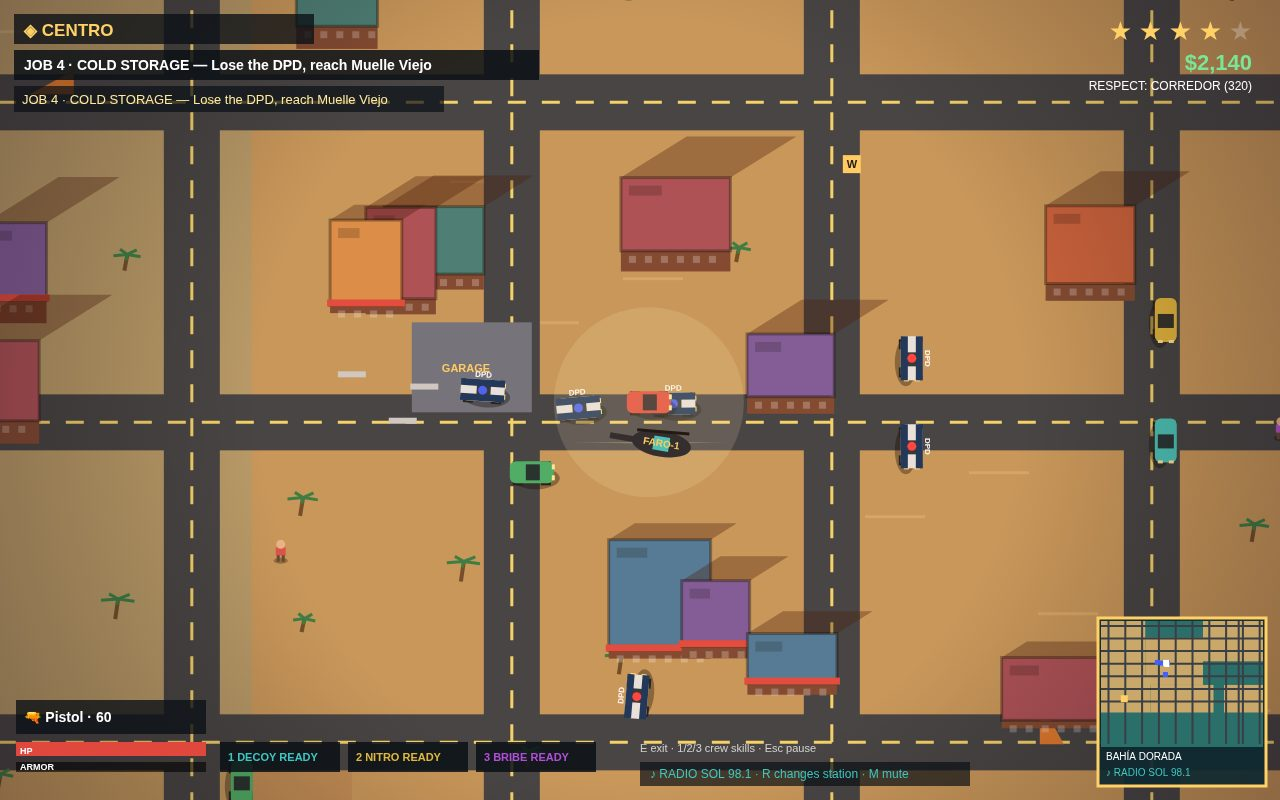
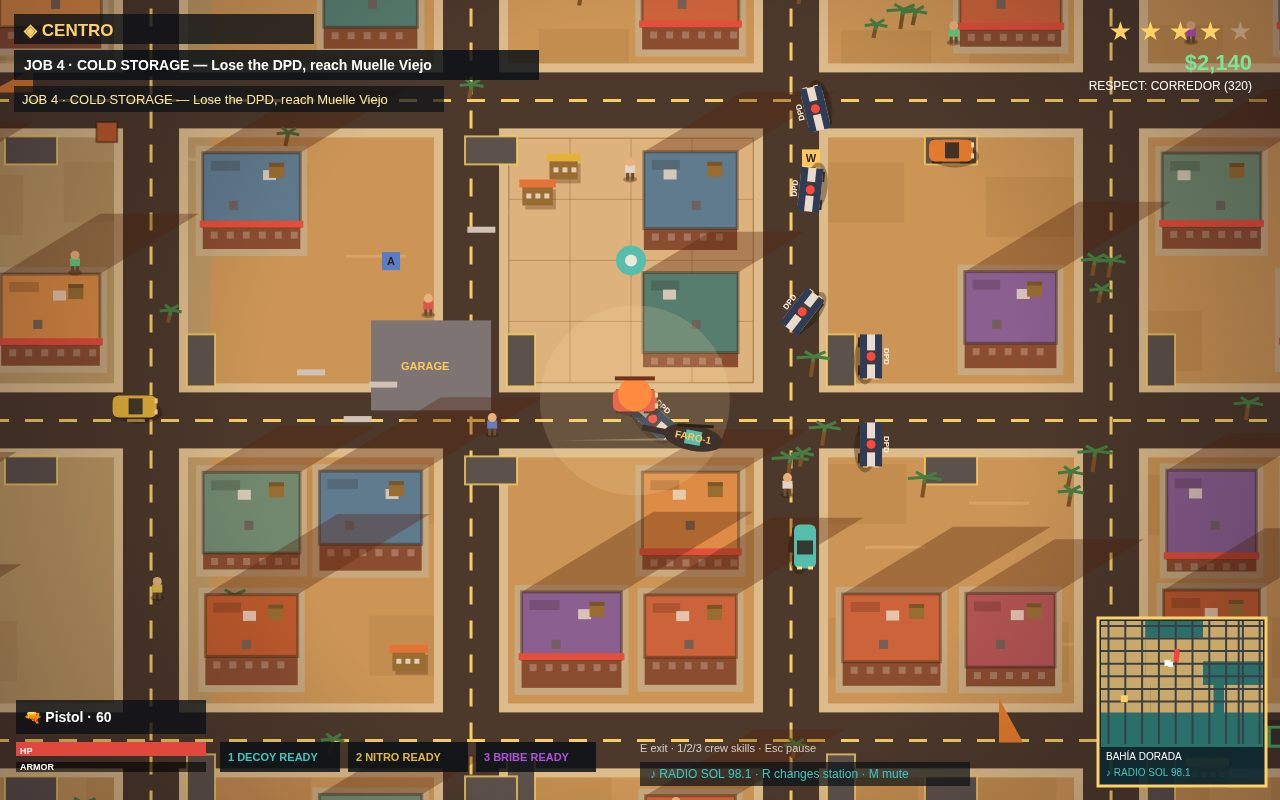
Densify city blocks, ground detail, warmer grade

diff --git a/game/src/render.js b/game/src/render.js
@@ -26,6 +26,30 @@ export function drawWorld(ctx, G) {
   const b = G.city.beach;
   ctx.fillStyle = COLORS.sand; ctx.fillRect(b.x - cam.x, b.y - cam.y, b.w, b.h);
   ctx.fillStyle = '#7a9e52'; ctx.fillRect(2000 - cam.x, -cam.y, 1200, 1100); // Las Lomas green
+  // ground texture patches (deterministic hash, viewport-culled)
+  ctx.fillStyle = 'rgba(120,84,40,0.13)';
+  for (let gx = Math.floor(cam.x / 150) * 150; gx < cam.x + 1280; gx += 150) for (let gy = Math.floor(cam.y / 150) * 150; gy < cam.y + 800; gy += 150) {
+    const hsh = Math.abs(Math.sin(gx * 12.9898 + gy * 78.233) * 43758.5453) % 1;
+    if (hsh < 0.55) ctx.fillRect(gx - cam.x + hsh * 60, gy - cam.y + hsh * 40, 90, 60);
+  }
+  // building lot paving: a concrete apron under every building fills the block
+  ctx.fillStyle = '#bfae8d';
+  for (const bd of G.city.buildings) {
+    const lx = bd.x - 7 - cam.x, ly = bd.y - 7 - cam.y;
+    if (lx < -180 || ly < -180 || lx > 1420 || ly > 920) continue;
+    ctx.fillRect(lx, ly, bd.w + 14, bd.h + 14);
+  }
+  // Centro plaza paving + fountain (block between the central avenues)
+  ctx.fillStyle = '#d9b98a'; ctx.fillRect(1198 - cam.x, 878 - cam.y, 244, 244);
+  ctx.strokeStyle = 'rgba(120,80,40,0.35)'; ctx.lineWidth = 1;
+  for (let i = 0; i <= 4; i++) {
+    ctx.beginPath(); ctx.moveTo(1198 + i * 61 - cam.x, 878 - cam.y); ctx.lineTo(1198 + i * 61 - cam.x, 1122 - cam.y); ctx.stroke();
+    ctx.beginPath(); ctx.moveTo(1198 - cam.x, 878 + i * 61 - cam.y); ctx.lineTo(1442 - cam.x, 878 + i * 61 - cam.y); ctx.stroke();
+  }
+  // sidewalks: light border slab under every road
+  ctx.fillStyle = '#d8c49a';
+  for (const r of G.city.vRoads) ctx.fillRect(r - ROAD_W / 2 - 9 - cam.x, -cam.y, ROAD_W + 18, WORLD.h);
+  for (const r of G.city.hRoads) ctx.fillRect(-cam.x, r - ROAD_W / 2 - 9 - cam.y, WORLD.w, ROAD_W + 18);
   // roads
   ctx.fillStyle = COLORS.road;
   for (const r of G.city.vRoads) ctx.fillRect(r - ROAD_W / 2 - cam.x, -cam.y, ROAD_W, WORLD.h);
@@ -34,6 +58,39 @@ export function drawWorld(ctx, G) {
   for (const r of G.city.vRoads) { ctx.beginPath(); ctx.moveTo(r - cam.x, -cam.y); ctx.lineTo(r - cam.x, WORLD.h - cam.y); ctx.stroke(); }
   for (const r of G.city.hRoads) { ctx.beginPath(); ctx.moveTo(-cam.x, r - cam.y); ctx.lineTo(WORLD.w - cam.x, r - cam.y); ctx.stroke(); }
   ctx.setLineDash([]);
+  // parking bays along road edges (under the parked cars)
+  for (const s of G.city.parkedSpots) {
+    const x = s.x - cam.x, y = s.y - cam.y;
+    if (x < -60 || x > 1340 || y < -60 || y > 860) continue;
+    ctx.save(); ctx.translate(x, y); ctx.rotate(s.a);
+    ctx.fillStyle = '#454a51'; ctx.fillRect(-26, -14, 52, 28);
+    ctx.strokeStyle = 'rgba(245,215,110,0.8)'; ctx.lineWidth = 2; ctx.strokeRect(-26, -14, 52, 28);
+    ctx.restore();
+  }
+  // ground decor props: stalls / crates / containers / beach umbrellas
+  for (const pr of G.city.props) {
+    const x = pr.x - cam.x, y = pr.y - cam.y;
+    if (x < -80 || x > 1360 || y < -80 || y > 880) continue;
+    if (pr.kind === 'umbrella') {
+      ctx.strokeStyle = '#8a6a34'; ctx.lineWidth = 3; ctx.beginPath(); ctx.moveTo(x, y); ctx.lineTo(x, y - 12); ctx.stroke();
+      ctx.fillStyle = pr.color; ctx.beginPath(); ctx.arc(x, y - 13, 15, Math.PI, 0); ctx.closePath(); ctx.fill();
+      ctx.fillStyle = 'rgba(255,255,255,0.55)'; ctx.fillRect(x - 11, y + 5, 22, 6); // towel
+    } else if (pr.kind === 'stall') {
+      ctx.fillStyle = 'rgba(60,20,10,0.3)'; ctx.fillRect(x - pr.w / 2 + 3, y - pr.h / 2 + 4, pr.w, pr.h);
+      ctx.fillStyle = '#8a6a34'; ctx.fillRect(x - pr.w / 2, y - pr.h / 2, pr.w, pr.h);
+      ctx.fillStyle = pr.color; ctx.fillRect(x - pr.w / 2 - 3, y - pr.h / 2 - 6, pr.w + 6, 8); // awning
+      ctx.fillStyle = 'rgba(255,255,255,0.75)';
+      for (let sx = -pr.w / 2 + 4; sx < pr.w / 2 - 4; sx += 9) ctx.fillRect(x + sx, y - 2, 5, 5); // goods
+    } else if (pr.kind === 'crate') {
+      ctx.fillStyle = pr.color; ctx.fillRect(x - pr.w / 2, y - pr.h / 2, pr.w, pr.h);
+      ctx.strokeStyle = 'rgba(0,0,0,0.4)'; ctx.lineWidth = 2; ctx.strokeRect(x - pr.w / 2, y - pr.h / 2, pr.w, pr.h);
+    } else if (pr.kind === 'container') {
+      ctx.fillStyle = 'rgba(60,20,10,0.3)'; ctx.fillRect(x - pr.w / 2 + 4, y - pr.h / 2 + 5, pr.w, pr.h);
+      ctx.fillStyle = pr.color; ctx.fillRect(x - pr.w / 2, y - pr.h / 2, pr.w, pr.h);
+      ctx.strokeStyle = 'rgba(0,0,0,0.35)'; ctx.lineWidth = 2;
+      for (let cx2 = -pr.w / 2 + 8; cx2 < pr.w / 2; cx2 += 11) { ctx.beginPath(); ctx.moveTo(x + cx2, y - pr.h / 2); ctx.lineTo(x + cx2, y + pr.h / 2); ctx.stroke(); }
+    }
+  }
   // causeway bridge
   ctx.fillStyle = '#8a8f96'; ctx.fillRect(2560 - cam.x, 1640 - cam.y, 240, 60);
   // garage pad
@@ -68,6 +125,9 @@ export function drawWorld(ctx, G) {
   // buildings sorted by y for pseudo-3D overlap
   const sorted = [...G.city.buildings].sort((a, b2) => a.y - b2.y);
   for (const bd of sorted) drawBuilding(ctx, bd, cam);
+  // Centro plaza fountain, in the cross-gap of its block
+  ctx.fillStyle = '#3ec6c0'; ctx.beginPath(); ctx.arc(1320 - cam.x, 1000 - cam.y, 15, 0, 7); ctx.fill();
+  ctx.fillStyle = '#e8f6f6'; ctx.beginPath(); ctx.arc(1320 - cam.x, 1000 - cam.y, 6, 0, 7); ctx.fill();
   // Isla Faro lighthouse
   drawLighthouse(ctx, G, cam);
   // objective marker beam
@@ -107,7 +167,7 @@ export function drawWorld(ctx, G) {
   }
   drawHeli(ctx, G, cam);
   // golden-hour tint + vignette
-  ctx.fillStyle = 'rgba(255,140,50,0.08)'; ctx.fillRect(0, 0, 1280, 800);
+  ctx.fillStyle = 'rgba(255,130,40,0.13)'; ctx.fillRect(0, 0, 1280, 800);
   const vg = ctx.createRadialGradient(640, 400, 380, 640, 400, 780);
   vg.addColorStop(0, 'rgba(0,0,0,0)'); vg.addColorStop(1, 'rgba(20,8,20,0.35)');
   ctx.fillStyle = vg; ctx.fillRect(0, 0, 1280, 800);
@@ -118,7 +178,7 @@ function drawBuilding(ctx, bd, cam) {
   if (x < -180 || y < -180 || x > 1400 || y > 900) return;
   // long golden-hour shadow to the north-east
   ctx.fillStyle = COLORS.shadow;
-  ctx.beginPath(); ctx.moveTo(x, y); ctx.lineTo(x + bd.w, y); ctx.lineTo(x + bd.w + bd.tall * 1.6, y - bd.tall); ctx.lineTo(x + bd.tall * 1.6, y - bd.tall); ctx.closePath(); ctx.fill();
+  ctx.beginPath(); ctx.moveTo(x, y); ctx.lineTo(x + bd.w, y); ctx.lineTo(x + bd.w + bd.tall * 2.3, y - bd.tall * 1.4); ctx.lineTo(x + bd.tall * 2.3, y - bd.tall * 1.4); ctx.closePath(); ctx.fill();
   // south wall (extruded)
   ctx.fillStyle = COLORS.wall; ctx.fillRect(x, y + bd.h - bd.tall * 0.5, bd.w, bd.tall * 0.5);
   ctx.fillStyle = 'rgba(255,255,255,0.25)';
@@ -127,6 +187,11 @@ function drawBuilding(ctx, bd, cam) {
   ctx.fillStyle = bd.color; ctx.fillRect(x, y, bd.w, bd.h - bd.tall * 0.5);
   ctx.strokeStyle = 'rgba(0,0,0,0.35)'; ctx.strokeRect(x, y, bd.w, bd.h - bd.tall * 0.5);
   ctx.fillStyle = 'rgba(0,0,0,0.18)'; ctx.fillRect(x + 8, y + 8, bd.w * 0.3, 10);
+  // rooftop clutter (deterministic per building): AC box, vent, water tank on tall roofs
+  const rh = Math.abs(Math.sin(bd.x * 12.9898 + bd.y * 78.233) * 43758.5453) % 1;
+  ctx.fillStyle = 'rgba(230,225,215,0.85)'; ctx.fillRect(x + bd.w * (0.15 + rh * 0.5), y + bd.h * 0.18, 13, 10);
+  ctx.fillStyle = 'rgba(90,90,95,0.9)'; ctx.fillRect(x + bd.w * (0.55 - rh * 0.3), y + bd.h * 0.5, 9, 9);
+  if (bd.tall > 30) { ctx.fillStyle = '#8a6a34'; ctx.fillRect(x + bd.w * 0.68, y + 10, 15, 15); ctx.fillStyle = 'rgba(0,0,0,0.25)'; ctx.fillRect(x + bd.w * 0.68, y + 10, 15, 4); }
   if (bd.awning) { ctx.fillStyle = '#e0483e'; ctx.fillRect(x - 3, y + bd.h - bd.tall * 0.5 - 6, bd.w + 6, 7); }
   if (bd.name) { ctx.fillStyle = '#fff'; ctx.font = 'bold 10px sans-serif'; ctx.fillText(bd.name.toUpperCase(), x + 4, y + 14); }
 }

diff --git a/game/src/city.js b/game/src/city.js
@@ -9,20 +9,70 @@ export function buildCity(seed) {
   for (let y = 200; y < WORLD.h; y += 320) hRoads.push(y);
   // Causeway to Isla Faro
   vRoads.push(2680);
+  const parkedSpots = [];
+  for (const rx of vRoads) for (let y = 260; y < WORLD.h - 100; y += 420) parkedSpots.push({ x: rx + ROAD_W / 2 + 22, y, a: Math.PI / 2 });
+  for (const ry of hRoads) for (let x = 260; x < WORLD.w - 100; x += 460) parkedSpots.push({ x, y: ry + ROAD_W / 2 + 22, a: 0 });
   const buildings = [], palms = [], props = [];
-  const roofCols = ['#c65f3d', '#a84e5a', '#3f7d7a', '#d98e4a', '#7a5aa0', '#4a7a9e'];
-  for (const d of DISTRICTS) {
-    const n = d.id === 'isla' ? 12 : 40;
-    for (let i = 0; i < n; i++) {
-      const bx = d.x + 40 + rng() * (d.w - 160), by = d.y + 40 + rng() * (d.h - 160);
-      if (vRoads.some(r => Math.abs(bx - r) < 74) || hRoads.some(r => Math.abs(by - r) < 74)) continue;
-      if (bx > 2350 && by < 1650 && bx < 2500) continue; // keep causeway clear-ish
-      buildings.push({ x: bx, y: by, w: randRange(rng, 60, 120), h: randRange(rng, 60, 120), tall: randRange(rng, 14, 46), color: pick(rng, roofCols), awning: rng() < 0.4, name: '' });
+  const roofCols = ['#c65f3d', '#a84e5a', '#3f7d7a', '#d98e4a', '#7a5aa0', '#4a7a9e', '#b5542f', '#5d8a7a'];
+  // Block-based infill: every road-bounded block gets 2-4 buildings in a
+  // 2x2 slot grid, so no lot sits bare. Slots keep roads/garage/beach clear.
+  const xBounds = [0, ...[...vRoads].sort((a, b) => a - b), WORLD.w];
+  const yBounds = [0, ...[...hRoads].sort((a, b) => a - b), WORLD.h];
+  const keepClear = [[700, 820], [1700, 1460], [2540, 900], [2860, 1980], [500, 500], [1500, 900], [2600, 400], [1200, 1900], [1080, 1000], [400, 2000], [2750, 2000], [2200, 600]];
+  for (let xi = 0; xi < xBounds.length - 1; xi++) for (let yi = 0; yi < yBounds.length - 1; yi++) {
+    const ix = xBounds[xi] + (xBounds[xi] === 0 ? 22 : ROAD_W / 2 + 13), iy = yBounds[yi] + (yBounds[yi] === 0 ? 22 : ROAD_W / 2 + 13);
+    const iw = xBounds[xi + 1] - (xBounds[xi + 1] === WORLD.w ? 22 : ROAD_W / 2 + 13) - ix;
+    const ih = yBounds[yi + 1] - (yBounds[yi + 1] === WORLD.h ? 22 : ROAD_W / 2 + 13) - iy;
+    if (iw < 130 || ih < 130) continue;
+    const cx = ix + iw / 2, cy = iy + ih / 2;
+    const dist = DISTRICTS.find(d => cx >= d.x && cx < d.x + d.w && cy >= d.y && cy < d.y + d.h);
+    const slots = [[0, 0], [1, 0], [0, 1], [1, 1]].sort(() => rng() - 0.5);
+    const count = 2 + Math.floor(rng() * 3); // 2-4 per block
+    for (const [sx, sy] of slots.slice(0, count)) {
+      const sw = iw / 2, sh = ih / 2;
+      const bw = sw - randRange(rng, 16, 30), bh = sh - randRange(rng, 16, 30);
+      const bx = ix + sx * sw + (sw - bw) / 2, by = iy + sy * sh + (sh - bh) / 2;
+      if (bx < 2240 && bx + bw > 1000 && by < 2400 && by + bh > 2180) continue; // beach strip
+      if (bx < 1230 && bx + bw > 1010 && by < 1200 && by + bh > 1010) continue; // garage
+      if (keepClear.some(([kx, ky]) => kx > bx - 26 && kx < bx + bw + 26 && ky > by - 26 && ky < by + bh + 26)) continue;
+      if (parkedSpots.some(s => s.x > bx - 34 && s.x < bx + bw + 34 && s.y > by - 34 && s.y < by + bh + 34)) continue;
+      const tall = dist && dist.id === 'centro' ? randRange(rng, 26, 58) : dist && dist.id === 'lomas' ? randRange(rng, 10, 26) : randRange(rng, 14, 46);
+      buildings.push({ x: bx, y: by, w: bw, h: bh, tall, color: pick(rng, roofCols), awning: rng() < (dist && (dist.id === 'centro' || dist.id === 'playa') ? 0.65 : 0.3), name: '' });
     }
+  }
+  for (const d of DISTRICTS) {
     for (let i = 0; i < 14; i++) palms.push({ x: d.x + rng() * d.w, y: d.y + rng() * d.h, s: randRange(rng, 0.8, 1.3) });
+    // palm clusters: tight trios near block corners read as planted groves
+    for (let i = 0; i < 7; i++) {
+      const px = d.x + 60 + rng() * (d.w - 120), py = d.y + 60 + rng() * (d.h - 120);
+      for (let j = 0; j < 3; j++) palms.push({ x: px + (rng() - 0.5) * 44, y: py + (rng() - 0.5) * 44, s: randRange(rng, 0.85, 1.4) });
+    }
   }
   const names = ['Café Brisa', 'Taller Ruiz', 'Hotel Coral', 'Farmacia Sol', 'Banco Dorada', 'Mariscos Leo', 'Gimnasio Toro', 'Tienda Luna'];
   buildings.slice(0, names.length).forEach((b, i) => { b.name = names[i]; b.awning = true; });
+  // Ground decor (static, drawn under buildings): market stalls, cargo, umbrellas.
+  const inBuilding = (x, y, pad) => buildings.some(b => x > b.x - pad && x < b.x + b.w + pad && y > b.y - pad && y < b.y + b.h + pad);
+  const stallCols = ['#e0483e', '#e0b83e', '#3ec6c0', '#e2703a', '#43b06a'];
+  for (const d of DISTRICTS.filter(d => d.id === 'centro' || d.id === 'playa')) {
+    for (let i = 0; i < 22; i++) {
+      const x = d.x + 50 + rng() * (d.w - 100), y = d.y + 50 + rng() * (d.h - 100);
+      if (onRoad({ vRoads, hRoads }, x, y) || inBuilding(x, y, 16)) continue;
+      props.push({ kind: 'stall', x, y, w: randRange(rng, 26, 38), h: 20, color: pick(rng, stallCols) });
+    }
+  }
+  for (const d of DISTRICTS.filter(d => d.id === 'muelle' || d.id === 'puerto')) {
+    for (let i = 0; i < 16; i++) {
+      const x = d.x + 50 + rng() * (d.w - 100), y = d.y + 50 + rng() * (d.h - 100);
+      if (onRoad({ vRoads, hRoads }, x, y) || inBuilding(x, y, 20)) continue;
+      props.push({ kind: 'crate', x, y, w: randRange(rng, 16, 26), h: randRange(rng, 16, 26), color: pick(rng, ['#a9803e', '#8a6a34', '#b5542f']) });
+    }
+    for (let i = 0; i < 8; i++) {
+      const x = d.x + 60 + rng() * (d.w - 160), y = d.y + 60 + rng() * (d.h - 120);
+      if (onRoad({ vRoads, hRoads }, x, y) || inBuilding(x, y, 30)) continue;
+      props.push({ kind: 'container', x, y, w: 58, h: 26, color: pick(rng, ['#3f7d7a', '#a84e5a', '#4a7a9e', '#c65f3d']) });
+    }
+  }
+  for (let i = 0; i < 16; i++) props.push({ kind: 'umbrella', x: 1040 + rng() * 1120, y: 2210 + rng() * 150, color: pick(rng, stallCols) });
   // Beach strip along south edge of Playa Serena
   const beach = { x: 1000, y: 2180, w: 1200, h: 220 };
   const garage = { x: 1060, y: 1060, w: 120, h: 90, name: 'TALLER RUIZ — GARAGE' };
@@ -32,9 +82,6 @@ export function buildCity(seed) {
   const pickups = [];
   const pk = [['smg', 500, 500], ['shotgun', 1500, 900], ['rifle', 2600, 400], ['pistol', 1200, 1900], ['armor', 1080, 1000], ['health', 400, 2000], ['smg', 2750, 2000], ['health', 2200, 600]];
   for (const [kind, x, y] of pk) pickups.push({ kind, x, y, taken: false, respawn: 0 });
-  const parkedSpots = [];
-  for (const rx of vRoads) for (let y = 260; y < WORLD.h - 100; y += 420) parkedSpots.push({ x: rx + ROAD_W / 2 + 22, y, a: Math.PI / 2 });
-  for (const ry of hRoads) for (let x = 260; x < WORLD.w - 100; x += 460) parkedSpots.push({ x, y: ry + ROAD_W / 2 + 22, a: 0 });
   return { vRoads, hRoads, buildings, palms, props, beach, garage, ramps, pickups, parkedSpots, rng };
 }
 export function onRoad(city, x, y) {

diff --git a/game/src/config.js b/game/src/config.js
@@ -3,7 +3,7 @@ export const WORLD = { w: 3200, h: 2400 };
 export const VIEW = { w: 1280, h: 800 };
 export const TILE = 40;
 export const COLORS = {
-  water: '#1b6f7a', sand: '#e8c07a', grass: '#5d8a4a', road: '#3a3f46',
+  water: '#1b6f7a', sand: '#e8c07a', grass: '#5d8a4a', road: '#332f2d',
   roadLine: '#f5d76e', roofA: '#c65f3d', roofB: '#8e4a63', roofC: '#3f7d7a',
   wall: '#7a4632', palm: '#2e7d46', shadow: 'rgba(60,20,10,0.35)',
   sky: '#ff9a3c', teal: '#0e3a44', gold: '#ffd166'
